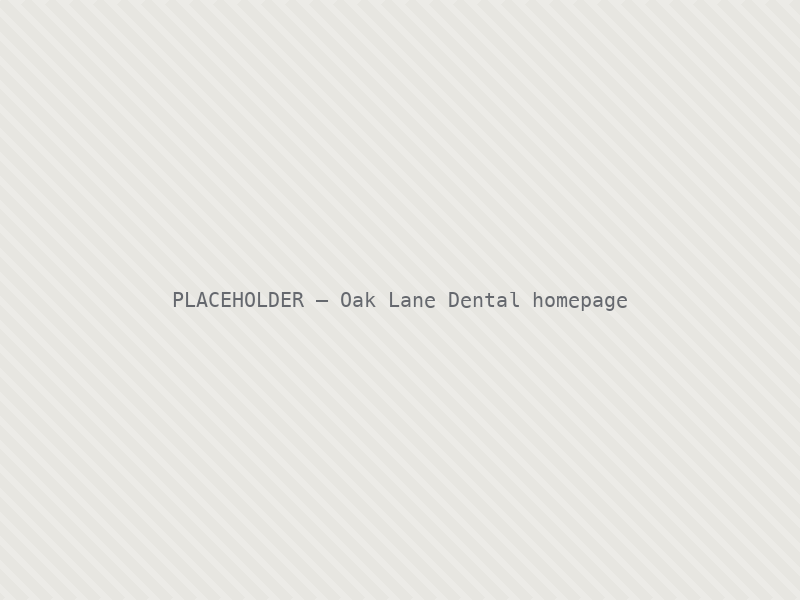
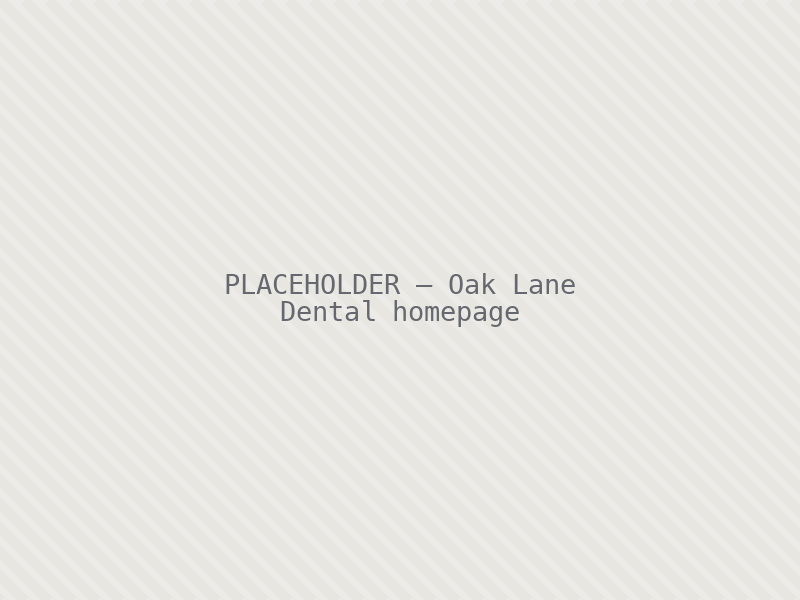
Fix placeholder image text getting cropped by object-fit:cover
The placeholder label text was sized to the full image width, but
object-fit:cover crops images to fill differently-proportioned
containers (confirmed on the live site — text was cut off on both
edges). Regenerated with text wrapped into a narrow, centered safe
zone that survives aggressive cropping in any direction.

Changed region(s): [[0.2188, 0.45, 0.7812, 0.54]]

diff --git a/work-oak-lane-dental.html b/work-oak-lane-dental.html
@@ -46,7 +46,7 @@
     </div>
     <h1 class="display-serif" style="color:var(--bone);margin-bottom:64px;max-width:18ch">A dental practice that books itself</h1>
     <div style="border:1px solid var(--border-on-ink);border-bottom:none;border-radius:12px 12px 0 0;overflow:hidden">
-      <div class="shot cs-hero-shot"><img src="assets/img/oaklane-full.png" width="1400" height="700" loading="lazy" alt="Placeholder — Oak Lane Dental full homepage, desktop"></div>
+      <div class="shot cs-hero-shot"><img src="assets/img/oaklane-full.png?v=2" width="1400" height="700" loading="lazy" alt="Placeholder — Oak Lane Dental full homepage, desktop"></div>
     </div>
   </div>
 </section>
@@ -109,10 +109,10 @@
       <div class="chrome">
         <span class="dot"></span><span class="dot"></span><span class="dot"></span>
       </div>
-      <div class="shot"><img src="assets/img/oaklane-treatment.png" width="1200" height="700" loading="lazy" alt="Placeholder — desktop treatment page"></div>
+      <div class="shot"><img src="assets/img/oaklane-treatment.png?v=2" width="1200" height="700" loading="lazy" alt="Placeholder — desktop treatment page"></div>
     </div>
     <div class="device-phone">
-      <div class="shot"><img src="assets/img/oaklane-mobile.png" width="500" height="900" loading="lazy" alt="Placeholder — mobile booking flow"></div>
+      <div class="shot"><img src="assets/img/oaklane-mobile.png?v=2" width="500" height="900" loading="lazy" alt="Placeholder — mobile booking flow"></div>
     </div>
   </div>
 </section>

diff --git a/index.html b/index.html
@@ -81,7 +81,7 @@
         <span class="dot"></span><span class="dot"></span><span class="dot"></span>
         <span class="url">oaklanedental.co.uk</span>
       </div>
-      <div class="shot hero-shot"><img src="assets/img/oaklane-hero.png" width="900" height="700" loading="lazy" alt="Placeholder — Oak Lane Dental homepage screenshot"></div>
+      <div class="shot hero-shot"><img src="assets/img/oaklane-hero.png?v=2" width="900" height="700" loading="lazy" alt="Placeholder — Oak Lane Dental homepage screenshot"></div>
     </div>
   </div>
 </section>
@@ -202,7 +202,7 @@
     <!-- TODO: restore Fieldnote featured-work card when its case study exists -->
     <div class="grid grid-2" style="max-width:560px">
       <a href="work-oak-lane-dental.html" class="card card-hover work-card">
-        <div class="shot work-shot"><img src="assets/img/oaklane-home.png" width="800" height="600" loading="lazy" alt="Placeholder — Oak Lane Dental homepage"></div>
+        <div class="shot work-shot"><img src="assets/img/oaklane-home.png?v=2" width="800" height="600" loading="lazy" alt="Placeholder — Oak Lane Dental homepage"></div>
         <div class="work-body">
           <h3>Oak Lane Dental</h3>
           <p class="body-lg">Online bookings up 42% in the first quarter.</p>
